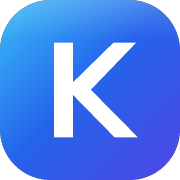
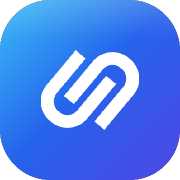
feat: update branding assets and enhance Hero component with animations

diff --git a/src/components/landing/Hero.tsx b/src/components/landing/Hero.tsx
@@ -1,50 +1,141 @@
+import { AnimatePresence, motion, useReducedMotion } from "motion/react";
 import { ArrowRight, CirclePlay } from "lucide-react";
-import { motion } from "motion/react";
+import { useEffect, useState } from "react";
 import { Button } from "@/components/ui/button";
 import { InboxPreview } from "@/components/landing/InboxPreview";
 import { ShimmerButton } from "@/components/landing/ShimmerButton";
+import {
+  FacebookMark,
+  GmailMark,
+  InstagramMark,
+  LinkedInMark,
+  MessengerMark,
+  ThreadsMark,
+  WhatsAppMark,
+  XMark,
+} from "@/components/landing/BrandMarks";
+
+const ease = [0.22, 1, 0.36, 1] as const;
+
+const headline = ["Chat", "marketing", "&", "engagement,", "without", "the", "tab", "chaos."];
+
+const pulses = [
+  "IG comment “Price?” → WhatsApp catalog in 1.8s",
+  "Collision lock on · Sarah is replying",
+  "8 native channels in one pulse",
+] as const;
+
+const channels = [
+  { name: "Instagram", Mark: InstagramMark },
+  { name: "Facebook", Mark: FacebookMark },
+  { name: "Messenger", Mark: MessengerMark },
+  { name: "WhatsApp", Mark: WhatsAppMark },
+  { name: "Threads", Mark: ThreadsMark },
+  { name: "X", Mark: XMark },
+  { name: "LinkedIn", Mark: LinkedInMark },
+  { name: "Gmail", Mark: GmailMark },
+];
 
 export function Hero() {
+  const reduce = useReducedMotion();
+  const [pulse, setPulse] = useState(0);
+
+  useEffect(() => {
+    const timer = window.setInterval(() => setPulse((value) => (value + 1) % pulses.length), 2800);
+    return () => window.clearInterval(timer);
+  }, []);
+
+  const live = pulses[pulse] ?? pulses[0];
+
   return (
-    <section className="mx-auto max-w-7xl px-5 text-center">
+    <section className="relative mx-auto max-w-7xl px-5 text-center">
       <motion.div
-        initial={{ opacity: 0, y: 12 }}
-        animate={{ opacity: 1, y: 0 }}
-        className="glass-panel inline-flex items-center gap-2 rounded-full px-4 py-2 text-[11px] font-medium text-slate-600 ring-1 ring-inset ring-white/90"
+        initial={reduce ? false : { opacity: 0, y: 14, scale: 0.96 }}
+        animate={{ opacity: 1, y: 0, scale: 1 }}
+        transition={{ duration: 0.55, ease }}
+        className="glass-panel mx-auto inline-flex max-w-full flex-col items-center gap-1.5 rounded-full px-3 py-1.5 text-[11px] font-medium text-slate-600 ring-1 ring-inset ring-white/90 sm:flex-row sm:gap-2 sm:px-4 sm:py-2"
       >
-        <span className="relative flex size-2">
-          <span className="absolute inline-flex size-full animate-ping rounded-full bg-emerald-400 opacity-70" />
-          <span className="relative size-2 rounded-full bg-emerald-500" />
+        <span className="inline-flex items-center gap-2">
+          <span className="relative flex size-2">
+            <span className="absolute inline-flex size-full animate-ping rounded-full bg-emerald-400 opacity-70" />
+            <span className="relative size-2 rounded-full bg-emerald-500 shadow-[0_0_10px_#34d399]" />
+          </span>
+          <span className="font-semibold text-slate-800">Live workspace</span>
         </span>
-        Unified Social Inbox & Engagement Engine
+        <span className="hidden h-3 w-px bg-slate-200 sm:block" />
+        <span className="relative h-5 overflow-hidden">
+          <AnimatePresence mode="wait">
+            <motion.span
+              key={live}
+              initial={{ opacity: 0, y: 10 }}
+              animate={{ opacity: 1, y: 0 }}
+              exit={{ opacity: 0, y: -10 }}
+              transition={{ duration: 0.28 }}
+              className="block max-w-[18rem] truncate text-slate-500 sm:max-w-none"
+            >
+              {live}
+            </motion.span>
+          </AnimatePresence>
+        </span>
       </motion.div>
 
-      <motion.h1
-        initial={{ opacity: 0, y: 24 }}
-        animate={{ opacity: 1, y: 0 }}
-        transition={{ delay: 0.1, duration: 0.7, ease: [0.22, 1, 0.36, 1] }}
-        className="mx-auto mt-7 max-w-5xl text-4xl font-extrabold tracking-tight text-slate-900 sm:text-6xl lg:text-7xl"
-      >
-        Chat marketing & engagement,{" "}
-        <span className="bg-gradient-to-r from-slate-950 via-blue-900 to-indigo-800 bg-clip-text text-transparent">
-          without the tab chaos.
-        </span>
-      </motion.h1>
+      <h1 className="mx-auto mt-7 max-w-5xl text-4xl font-extrabold tracking-tight text-slate-900 sm:text-6xl lg:text-7xl">
+        {headline.map((word, index) => {
+          const accent = index >= 4;
+          return (
+            <motion.span
+              key={`${word}-${index}`}
+              initial={reduce ? false : { opacity: 0, y: 22, filter: "blur(8px)" }}
+              animate={{ opacity: 1, y: 0, filter: "blur(0px)" }}
+              transition={{ delay: 0.08 + index * 0.055, duration: 0.62, ease }}
+              className={
+                accent
+                  ? "mr-[0.28em] inline-block bg-gradient-to-r from-slate-950 via-blue-700 to-indigo-600 bg-clip-text text-transparent animate-headline-shine"
+                  : "mr-[0.28em] inline-block"
+              }
+            >
+              {word}
+            </motion.span>
+          );
+        })}
+      </h1>
 
       <motion.p
-        initial={{ opacity: 0, y: 20 }}
+        initial={reduce ? false : { opacity: 0, y: 18 }}
         animate={{ opacity: 1, y: 0 }}
-        transition={{ delay: 0.2, duration: 0.6 }}
+        transition={{ delay: 0.55, duration: 0.6, ease }}
         className="mx-auto mt-6 max-w-2xl text-base leading-7 text-slate-600 sm:text-lg"
       >
         Unify social DMs, auto-manage likes and comments, prevent agent collision, and stitch 360°
         customer profiles across all 8 channels in one calm workspace.
       </motion.p>
 
+      <motion.ul
+        initial={reduce ? false : { opacity: 0, y: 12 }}
+        animate={{ opacity: 1, y: 0 }}
+        transition={{ delay: 0.68, duration: 0.55, ease }}
+        className="mx-auto mt-7 flex max-w-xl flex-wrap items-center justify-center gap-1.5"
+        aria-label="Native channels"
+      >
+        {channels.map((channel, index) => (
+          <motion.li
+            key={channel.name}
+            initial={reduce ? false : { opacity: 0, scale: 0.7 }}
+            animate={{ opacity: 1, scale: 1 }}
+            transition={{ delay: 0.72 + index * 0.04, type: "spring", stiffness: 380, damping: 20 }}
+            whileHover={{ y: -3, scale: 1.08 }}
+            className="grid size-10 place-items-center rounded-2xl border border-white/80 bg-white/70 shadow-[inset_0_1px_1px_rgba(255,255,255,0.95),0_8px_20px_-12px_rgba(15,23,42,0.18)] backdrop-blur-xl"
+            title={channel.name}
+          >
+            <channel.Mark className="size-6" />
+          </motion.li>
+        ))}
+      </motion.ul>
+
       <motion.div
-        initial={{ opacity: 0 }}
-        animate={{ opacity: 1 }}
-        transition={{ delay: 0.3 }}
+        initial={reduce ? false : { opacity: 0, y: 12 }}
+        animate={{ opacity: 1, y: 0 }}
+        transition={{ delay: 0.85, duration: 0.5 }}
         className="mt-8 flex flex-col items-center justify-center gap-3 sm:flex-row"
       >
         <ShimmerButton
@@ -54,7 +145,13 @@ export function Hero() {
           }
         >
           Start Free Trial
-          <ArrowRight />
+          <motion.span
+            animate={reduce ? { x: 0 } : { x: [0, 4, 0] }}
+            transition={{ duration: 1.6, repeat: Infinity, ease: "easeInOut" }}
+            className="grid place-items-center"
+          >
+            <ArrowRight />
+          </motion.span>
         </ShimmerButton>
         <Button
           variant="glass"
@@ -63,7 +160,7 @@ export function Hero() {
           onClick={() => document.querySelector("#inbox")?.scrollIntoView({ behavior: "smooth" })}
         >
           <motion.span
-            animate={{ scale: [1, 1.18, 1] }}
+            animate={reduce ? { scale: 1 } : { scale: [1, 1.16, 1] }}
             transition={{ duration: 1.6, repeat: Infinity, ease: "easeInOut" }}
             className="grid place-items-center"
           >
@@ -72,9 +169,23 @@ export function Hero() {
           Live Product Tour
         </Button>
       </motion.div>
-      <p className="mt-4 text-[11px] font-medium text-slate-500">
-        No credit card · Set up in under 5 minutes
-      </p>
+
+      <motion.p
+        initial={reduce ? false : { opacity: 0 }}
+        animate={{ opacity: 1 }}
+        transition={{ delay: 1 }}
+        className="mt-4 flex flex-wrap items-center justify-center gap-x-3 gap-y-1 text-[11px] font-medium text-slate-500"
+      >
+        <span>No credit card</span>
+        <span className="hidden size-1 rounded-full bg-slate-300 sm:inline-block" />
+        <span>Set up in under 5 minutes</span>
+        <span className="hidden size-1 rounded-full bg-slate-300 sm:inline-block" />
+        <span className="inline-flex items-center gap-1 text-emerald-700">
+          <span className="size-1.5 rounded-full bg-emerald-500" />
+          99.98% API uptime
+        </span>
+      </motion.p>
+
       <InboxPreview />
     </section>
   );

diff --git a/src/components/landing/Logo.tsx b/src/components/landing/Logo.tsx
@@ -1,38 +1,13 @@
-import { useId } from "react";
+import { BrandIcon } from "@/components/landing/BrandIcon";
 
 export function Logo({ compact = false }: { compact?: boolean }) {
-  const gradientId = `kolink-logo-${useId().replace(/:/g, "")}`;
-
   return (
     <a href="#top" className="group flex items-center gap-2.5">
       <span className="relative grid size-8 place-items-center">
         <span className="animate-breathe absolute inset-[-7px] rounded-2xl bg-sky-400/50 blur-md" />
-        <span className="relative size-8 overflow-hidden rounded-xl shadow-lg shadow-blue-500/40">
-          <svg viewBox="0 0 32 32" className="size-8" aria-hidden>
-            <defs>
-              <linearGradient id={gradientId} x1="6" y1="2" x2="28" y2="30" gradientUnits="userSpaceOnUse">
-                <stop offset="0%" stopColor="#38bdf8" />
-                <stop offset="48%" stopColor="#2563eb" />
-                <stop offset="100%" stopColor="#4f46e5" />
-              </linearGradient>
-            </defs>
-            <rect width="32" height="32" rx="9" fill={`url(#${gradientId})`} />
-            <rect
-              x="1"
-              y="1"
-              width="30"
-              height="30"
-              rx="8"
-              fill="none"
-              stroke="#fff"
-              strokeOpacity="0.32"
-              strokeWidth="1"
-            />
-            <path
-              fill="#fff"
-              d="M9.6 7.6h3.35v7.05L20.15 7.6h4.05l-8.05 8.35 8.35 8.45h-4.15l-7.35-7.5v7.5H9.6V7.6Z"
-            />
-          </svg>
+        <span className="relative grid size-8 place-items-center rounded-xl bg-gradient-to-br from-sky-400 via-blue-600 to-indigo-600 text-white shadow-lg shadow-blue-500/40">
+          <span className="absolute inset-[1px] rounded-[10px] bg-gradient-to-br from-white/35 to-transparent" />
+          <BrandIcon className="relative size-[18px]" />
         </span>
       </span>
       <span

diff --git a/src/components/landing/BrandIcon.tsx b/src/components/landing/BrandIcon.tsx
@@ -1,0 +1,10 @@
+export function BrandIcon({ className = "size-5" }: { className?: string }) {
+  return (
+    <svg viewBox="0 0 800 800" fill="none" className={className} aria-hidden>
+      <g transform="translate(59.5, 125)" fill="currentColor">
+        <path d="M228.421 373.521L160.059 316.385L360.606 76.4461C376.203 57.7832 394.361 43.2127 415.073 32.729C435.788 22.2481 457.516 15.9931 480.257 13.9639C503.001 11.929 525.416 14.1682 547.507 20.6843C569.593 27.2005 589.962 38.2546 608.616 53.844L617.789 61.5067C636.451 77.1045 651.025 95.2623 661.506 115.974C671.989 136.681 678.247 158.406 680.282 181.147C682.32 203.891 680.018 226.38 673.38 248.624C666.736 270.866 655.614 291.32 640.016 309.983L439.469 549.922L370.652 492.4L571.199 252.461C581.425 240.229 587.839 226.493 590.441 211.253C593.047 196.018 591.792 181.204 586.684 166.809C581.57 152.409 572.891 140.092 560.653 129.858L551.481 122.195C539.252 111.973 525.598 105.627 510.522 103.158C495.446 100.683 480.643 102.079 466.112 107.347C451.576 112.608 439.194 121.352 428.968 133.581L228.421 373.521Z" />
+        <path d="M452.579 176.401L520.941 233.536L320.394 473.476C304.796 492.138 286.639 506.709 265.927 517.193C245.212 527.674 223.484 533.929 200.743 535.958C177.999 537.993 155.584 535.753 133.492 529.237C111.407 522.721 91.0382 511.667 72.3838 496.078L63.2113 488.415C44.5483 472.817 29.975 454.659 19.4942 433.947C9.01045 413.241 2.75257 391.516 0.7177 368.775C-1.32001 346.031 0.981637 323.542 7.61981 301.297C14.2636 279.056 25.3859 258.602 40.9838 239.939L241.531 0L310.348 57.5214L109.8 297.46C99.575 309.692 93.1611 323.428 90.5586 338.669C87.9533 353.903 89.2077 368.718 94.3162 383.112C99.4303 397.513 108.109 409.83 120.347 420.064L129.519 427.726C141.748 437.949 155.402 444.295 170.478 446.764C185.553 449.239 200.357 447.842 214.887 442.575C229.424 437.313 241.806 428.569 252.032 416.34L452.579 176.401Z" />
+      </g>
+    </svg>
+  );
+}

diff --git a/src/components/landing/InboxPreview.tsx b/src/components/landing/InboxPreview.tsx
@@ -1,5 +1,6 @@
 import { AtSign, Bot, Heart, MessageCircle, Search, Send, Sparkles, Workflow, Zap } from "lucide-react";
 import { motion } from "motion/react";
+import { BrandIcon } from "@/components/landing/BrandIcon";
 
 const threads = [
   {
@@ -89,8 +90,8 @@ export function InboxPreview() {
         <div className="pointer-events-none absolute inset-x-12 top-0 h-24 bg-gradient-to-b from-white/80 to-transparent" />
         <div className="flex h-[400px] overflow-hidden rounded-[1.15rem] border border-white/70 bg-white/55 sm:h-[460px] md:h-[540px]">
           <aside className="hidden w-16 shrink-0 flex-col items-center border-r border-slate-200/70 bg-white/40 py-5 sm:flex">
-            <div className="grid size-8 place-items-center rounded-xl bg-gradient-to-br from-blue-500 to-indigo-600 text-xs font-extrabold text-white shadow-md shadow-blue-500/30">
-              k
+            <div className="grid size-8 place-items-center rounded-xl bg-gradient-to-br from-blue-500 to-indigo-600 text-white shadow-md shadow-blue-500/30">
+              <BrandIcon className="size-4" />
             </div>
             <div className="mt-8 grid gap-5 text-slate-400">
               <MessageCircle className="text-blue-600" size={18} />

diff --git a/src/routes/__root.tsx b/src/routes/__root.tsx
@@ -98,7 +98,7 @@ export const Route = createRootRouteWithContext<{ queryClient: QueryClient }>()(
         href: "https://fonts.googleapis.com/css2?family=Inter:wght@400;500;600;700&family=Plus+Jakarta+Sans:wght@400;500;600;700;800&display=swap",
       },
       { rel: "icon", href: "/favicon.svg", type: "image/svg+xml" },
-      { rel: "icon", href: "/favicon.ico?v=kolink", sizes: "32x32", type: "image/x-icon" },
+      { rel: "icon", href: "/favicon.ico?v=kolink-mark", sizes: "32x32", type: "image/x-icon" },
       { rel: "apple-touch-icon", href: "/apple-touch-icon.png" },
     ],
   }),

diff --git a/src/styles.css b/src/styles.css
@@ -188,6 +188,20 @@ html {
   background-clip: text;
 }
 
+@keyframes headline-shine {
+  0% {
+    background-position: 0% 50%;
+  }
+  100% {
+    background-position: 200% 50%;
+  }
+}
+
+@utility animate-headline-shine {
+  background-size: 220% auto;
+  animation: headline-shine 5s linear infinite;
+}
+
 @utility fade-mask-x {
   mask-image: linear-gradient(to right, transparent, black 12%, black 88%, transparent);
   -webkit-mask-image: linear-gradient(to right, transparent, black 12%, black 88%, transparent);

diff --git a/README.md b/README.md
@@ -2,7 +2,7 @@
 
 Marketing site for **koLink Chat** — one luminous inbox for comments, likes, DMs, and Gmail-speed replies.
 
-The tab icon is the same brand mark as the navbar: a sky → indigo tile with a bold **k**. Source: `public/favicon.svg`. Raster copies live at `public/favicon.ico` and `public/apple-touch-icon.png`.
+The tab icon matches the navbar: the koLink chain-link mark from `public/icon.svg`, set in white on a sky → indigo tile.
 
 ## Product scope
 
@@ -62,7 +62,8 @@ Then open the URL Vite prints (typically `http://localhost:8080` or `8081`).
 ## Brand assets
 
 - **Wordmark:** `koLink Chat` in Plus Jakarta Sans
-- **Mark:** rounded square, `#38bdf8 → #2563eb → #4f46e5`, white **k**
+- **Mark:** interlocking chain-link from `public/icon.svg`
+- **App icon:** that mark in white on `#38bdf8 → #2563eb → #4f46e5`
 - **Favicon:** `public/favicon.svg` (preferred) + `public/favicon.ico` fallback
 - **Touch icon:** `public/apple-touch-icon.png` (180×180)
 
